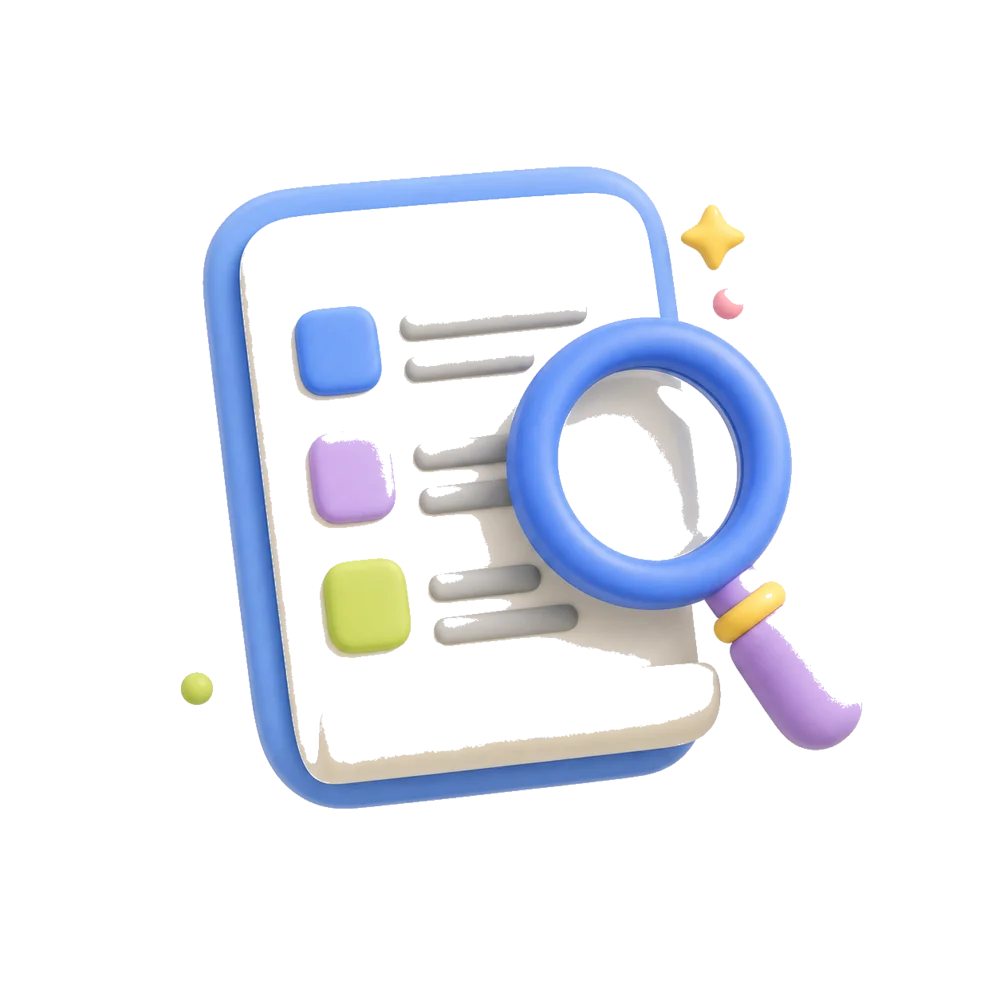
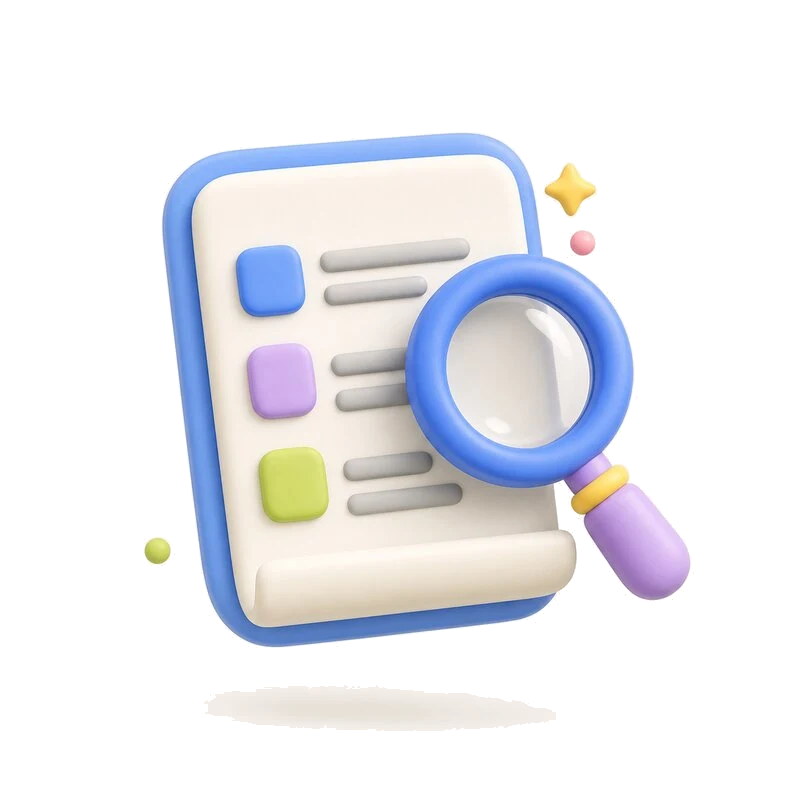
Redesign image-led interface and refine transparent assets

diff --git a/index.html b/index.html
@@ -110,14 +110,15 @@ h1,h2,h3{font-family:'Inter Tight','Inter',sans-serif;font-weight:800;letter-spa
 .hero-stage{position:relative}
 .hero-monitor{animation:float 7s ease-in-out infinite;filter:drop-shadow(0 34px 60px rgba(47,91,255,.24));will-change:transform}
 @keyframes float{0%,100%{transform:translateY(0) rotate(-.4deg)}50%{transform:translateY(-12px) rotate(.4deg)}}
-.hero-monitor img{width:100%;height:auto;border-radius:26px}
-.img-monitor{max-width:560px;margin:0 auto}
-.img-monitor img{width:100%;height:auto;border-radius:26px;box-shadow:var(--sh-lg)}
-.polaroid .ph img{width:100%;height:100%;object-fit:cover;border-radius:8px}
+.hero-monitor img{width:100%;height:auto}
+.img-monitor{max-width:640px;margin:0 auto}
+.img-monitor img{width:100%;height:auto;filter:drop-shadow(0 28px 44px rgba(27,27,34,.22))}
+.polaroid .ph img{width:100%;height:100%;object-fit:contain}
 .avatar img{width:100%;height:100%;object-fit:cover;border-radius:50%}
-.feat-icon,.sec-icon{width:64px;height:64px;object-fit:cover;border-radius:16px;border:1.5px solid var(--ink);margin-bottom:14px;background:#fff}
-.prop-sparkles{position:absolute;left:-4%;bottom:-6%;width:150px;border-radius:18px;border:1.5px solid var(--ink);box-shadow:var(--sh);transform:rotate(-6deg);z-index:2}
-.prop-rocket{width:110px;border-radius:18px;border:1.5px solid var(--ink);box-shadow:var(--sh);transform:rotate(6deg)}
+.feat-icon,.sec-icon{width:88px;height:88px;object-fit:contain;margin-bottom:16px;filter:drop-shadow(0 10px 18px rgba(27,27,34,.18));transition:transform .35s var(--ease)}
+.feat-icon:hover,.sec-icon:hover{transform:translateY(-4px) rotate(-3deg)}
+.prop-sparkles{position:absolute;left:-4%;bottom:-6%;width:160px;transform:rotate(-6deg);z-index:2;filter:drop-shadow(0 14px 24px rgba(27,27,34,.22))}
+.prop-rocket{width:120px;transform:rotate(6deg);filter:drop-shadow(0 12px 20px rgba(27,27,34,.2))}
 .sticky{position:absolute;background:var(--yellow);padding:16px 18px;border-radius:4px;box-shadow:0 14px 30px -10px rgba(27,27,34,.35);font-weight:600;font-size:15px;line-height:1.35;max-width:200px;text-align:left;z-index:2;transition:transform .35s var(--ease)}
 .sticky::before{content:"";position:absolute;top:-10px;left:50%;transform:translateX(-50%) rotate(-2deg);width:56px;height:18px;background:rgba(255,255,255,.6);border:1px solid rgba(27,27,34,.08);border-radius:2px}
 .sticky-blue{background:#DCE8FF;transform:rotate(-4deg)}
@@ -160,7 +161,7 @@ h1,h2,h3{font-family:'Inter Tight','Inter',sans-serif;font-weight:800;letter-spa
 .polaroid{background:#fff;border:1.5px solid var(--ink);border-radius:14px;padding:14px 14px 18px;box-shadow:var(--sh);transition:transform .4s var(--ease),box-shadow .4s var(--ease);position:relative}
 .polaroid::before{content:"";position:absolute;top:-11px;left:50%;transform:translateX(-50%) rotate(-3deg);width:64px;height:20px;background:rgba(255,233,138,.85);border:1px solid rgba(27,27,34,.1);border-radius:2px;z-index:2}
 .polaroid:hover{box-shadow:var(--sh-lg)}
-.polaroid .ph{border-radius:8px;min-height:120px;display:flex;align-items:center;justify-content:center;margin-bottom:14px;border:1px solid var(--hair)}
+.polaroid .ph{min-height:200px;display:flex;align-items:center;justify-content:center;margin-bottom:14px}
 .polaroid h3{font-size:22px}
 .polaroid p{color:var(--muted);font-size:14px;margin-top:6px}
 .polaroid .cap{font-family:'JetBrains Mono',monospace;font-size:11px;color:var(--muted);margin-top:10px}
@@ -233,11 +234,12 @@ h1,h2,h3{font-family:'Inter Tight','Inter',sans-serif;font-weight:800;letter-spa
 .st-done{background:#E6F7EC;color:#137A3A;border-color:#B9E8C8}.st-next{background:#FFF6DE;color:#8A5A00;border-color:#F0DFA8}.st-later{background:#F1EFE8;color:#5B5B68;border-color:#DDD8C8}
 /* STRIP + TEAM */
 .strip{display:grid;grid-template-columns:repeat(5,1fr);gap:16px}
-.strip .polaroid .ph{min-height:90px}
-.avatar{width:84px;height:84px;border-radius:50%;display:flex;align-items:center;justify-content:center;font-family:'Inter Tight',sans-serif;font-weight:900;font-size:26px;color:#fff;margin:0 auto 10px;border:3px solid #fff;box-shadow:var(--sh)}
+.strip .polaroid .ph{min-height:140px}
+.avatar{width:170px;height:170px;display:flex;align-items:center;justify-content:center;margin:0 auto 10px}
+.avatar img{object-fit:contain;border-radius:0}
 .team-grid{display:grid;grid-template-columns:repeat(3,1fr);gap:22px;max-width:960px;margin:0 auto}
 .team-grid .polaroid{text-align:center}
-.team-grid .ph{background:var(--lav);min-height:160px;flex-direction:column}
+.team-grid .ph{background:radial-gradient(circle, #e4eaff 0%, transparent 72%);min-height:200px;flex-direction:column}
 .icon{width:22px;height:22px;stroke:currentColor;fill:none;stroke-width:1.8;stroke-linecap:round;stroke-linejoin:round}
 .icon-lg{width:36px;height:36px}
 .center{text-align:center}
@@ -275,6 +277,20 @@ footer a:hover{color:#fff}
 .foot-bottom{border-top:1px solid #2E2E38;padding-top:24px;display:flex;justify-content:space-between;gap:16px;flex-wrap:wrap;font-size:13px;color:#8A8A98;position:relative;z-index:1}
 .foot-bottom .pixel{font-size:8px;color:#6E6E7E}
 .foot-giant{font-family:'Inter Tight',sans-serif;font-weight:900;font-size:clamp(64px,13vw,180px);line-height:.85;letter-spacing:-.06em;color:transparent;-webkit-text-stroke:1.5px rgba(247,244,236,.16);text-align:center;user-select:none;pointer-events:none;margin-bottom:36px}
+/* Image-led clay surfaces */
+.hero{background:radial-gradient(ellipse at 78% 42%,rgba(207,224,255,.8),transparent 42%)}
+.hero-stage{isolation:isolate}
+.hero-stage::before{content:"";position:absolute;inset:12% 7%;border-radius:50%;background:radial-gradient(circle,rgba(143,166,255,.3),transparent 70%);z-index:-1}
+#roles .polaroid{background:linear-gradient(155deg,#fff 35%,#f0f3ff);border-color:rgba(47,91,255,.17);border-radius:24px;padding:20px;box-shadow:0 16px 45px rgba(54,68,125,.1)}
+#roles .polaroid::before{display:none}
+#roles .ph{aspect-ratio:1;min-height:0;background:radial-gradient(circle,#dfe7ff,transparent 72%)}
+#roles .ph img{max-height:270px;filter:drop-shadow(0 15px 18px rgba(54,68,125,.15))}
+.bento .os,.grid3 .os{border-color:rgba(47,91,255,.18);box-shadow:0 14px 38px rgba(54,68,125,.09)}
+.bento .os-bar,.grid3 .os-bar{background:rgba(239,234,255,.45)}
+.strip .ph img{max-height:150px;filter:drop-shadow(0 10px 14px rgba(54,68,125,.12))}
+.team-grid .avatar img{filter:drop-shadow(0 12px 18px rgba(54,68,125,.15))}
+.img-monitor figcaption{position:relative}
+@media(max-width:760px){.prop-sparkles{width:90px;left:0;bottom:0}.hero-stage{margin-top:16px}.avatar{width:150px;height:150px}.img-monitor{max-width:100%}#roles .ph img{max-height:240px}}
 /* REVEAL */
 .reveal{opacity:0;transform:translateY(28px);transition:opacity .8s var(--ease),transform .8s var(--ease)}
 .reveal.in{opacity:1;transform:none}
